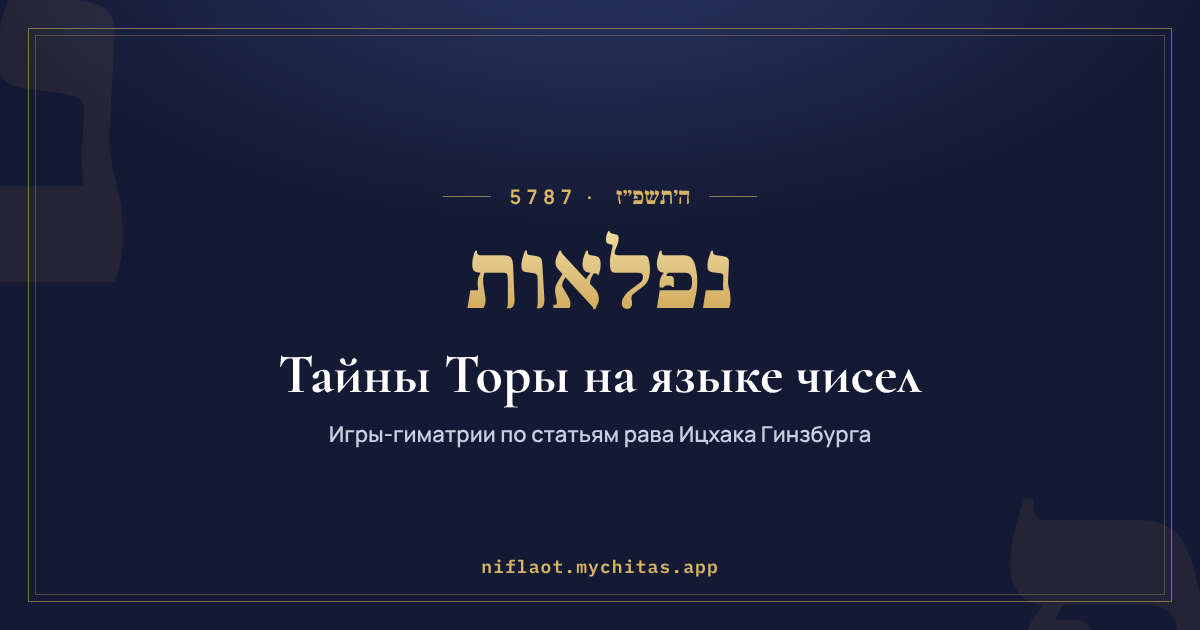
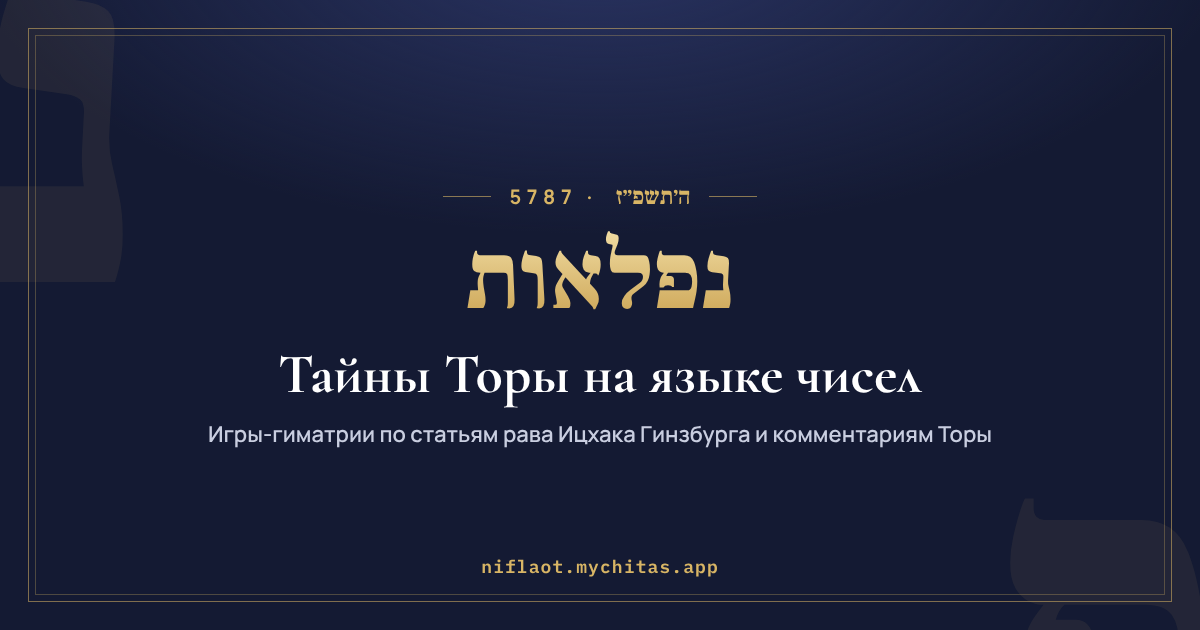
Site description: Rabbi Ginsburgh's articles and classic Torah commentaries
«About», tagline, footer, meta description, site OG image, README, CLAUDE.md,
lesson guide and the assistant prompt now mention the classic commentaries
(Baal HaTurim) next to Rabbi Ginsburgh's articles; the copyright line says
which texts belong to the rav and which come from Sefaria. ru/en/de.

Claude-Session: https://claude.ai/code/session_01AgfaXepv1Ty4CUDp6DvvTH

Changed region(s): [[0.1542, 0.6635, 0.8325, 0.7238]]

diff --git a/src/i18n/locales/ru.ts b/src/i18n/locales/ru.ts
@@ -28,7 +28,7 @@ const ru = {
   'about.title': 'О проекте',
   /** HTML */
   'about.body':
-    '<p><b>Нифлаот</b> — серия игр-гиматрий по статьям рава Ицхака Гинзбурга из брошюры «Нифлаот» (Гал Эйнай). Вы считаете числовые значения слов, находите скрытые равенства и шаг за шагом открываете смысл, который за ними стоит.</p><h4>Что здесь можно делать</h4><ul><li><b>Разгадывать уроки.</b> Каждая загадка — отрывок статьи и несколько слов на иврите; равенство нужно найти самому, а после решения открываются разгадка, изложение урока и вопрос к себе.</li><li><b>Научиться устному счёту через святую гиматрию.</b> Буквы здесь не складывает калькулятор — их складываете вы. Раздел «Устный счёт» в меню даёт по одной надёжной технике на сложение, вычитание, умножение и деление, с примерами из наших уроков и тренажёром трёх уровней. Числа из Торы становятся лучшим упражнением для ума.</li><li><b>Читать первоисточники.</b> Под каждым уроком — стихи Торы, мидраши и комментарии, на которые он опирается: оригинал на иврите и перевод рядом, со ссылкой на Sefaria. Можно проверить и углубить каждое утверждение.</li><li><b>Позвать помощника.</b> Кнопка ✦ в углу экрана разложит гиматрию любого слова по шагам — так, как её складывают в уме, — соберёт первоисточники урока и ответит на частые вопросы.</li><li><b>Распечатать урок</b> — для занятий за столом, в классе или в Шабат.</li></ul><h4>Для кого</h4><ul><li><b>Родителям</b> — чтобы учить Тору вместе с детьми, играя.</li><li><b>Читателям Хитаса</b> — как продолжение ежедневного учения.</li><li><b>Вундеркиндам</b> — тем, кто любит числа, загадки и глубину.</li><li><b>Всем</b>, кто хочет увидеть чудеса — <i>нифлаот</i> — в своей жизни.</li></ul><h4>Цели</h4><ul><li><b>Изучение Торы.</b> Не пассивное чтение, а живой поиск: каждое равенство нужно найти самому, и тогда смысл запоминается.</li><li><b>Исправление качеств души.</b> Каждый урок говорит о конкретных чертах — гордыне, вожделении, гневе, любви — и ведёт от понимания к работе над собой.</li><li><b>Ясная голова.</b> Устный счёт тренирует внимание и память, а святые слова дают этой тренировке смысл.</li></ul><h4>Задачи</h4><ul><li>Сделать глубокие статьи рава Гинзбурга доступными через игру: загадка, разгадка, изложение урока.</li><li>Опирать каждый урок на первоисточники, чтобы любой мог прочитать их сам.</li><li>Перевести знание в личную работу: после каждой загадки — вопрос к себе и место для записи.</li><li>Регулярно выпускать новые уроки и переводить их на разные языки.</li></ul><p>Полный текст статей на иврите — на pnimi.org.il. Все тексты целиком принадлежат раву Ицхаку Гинзбургу. Первоисточники — из открытой библиотеки Sefaria. Идея и реализация — Тора-проект <a href="https://mychitas.app" target="_blank" rel="noopener">mychitas.app</a>.</p><p>Адрес сайта: <a href="https://niflaot.mychitas.app">niflaot.mychitas.app</a></p>',
+    '<p><b>Нифлаот</b> — серия игр-гиматрий по статьям рава Ицхака Гинзбурга из брошюры «Нифлаот» (Гал Эйнай) и по классическим комментариям к Торе — таким как Бааль ха-Турим. Вы считаете числовые значения слов, находите скрытые равенства и шаг за шагом открываете смысл, который за ними стоит.</p><h4>Что здесь можно делать</h4><ul><li><b>Разгадывать уроки.</b> Каждая загадка — отрывок статьи или комментария и несколько слов на иврите; равенство нужно найти самому, а после решения открываются разгадка, изложение урока и вопрос к себе.</li><li><b>Научиться устному счёту через святую гиматрию.</b> Буквы здесь не складывает калькулятор — их складываете вы. Раздел «Устный счёт» в меню даёт по одной надёжной технике на сложение, вычитание, умножение и деление, с примерами из наших уроков и тренажёром трёх уровней. Числа из Торы становятся лучшим упражнением для ума.</li><li><b>Читать первоисточники.</b> Под каждым уроком — стихи Торы, мидраши и комментарии, на которые он опирается: оригинал на иврите и перевод рядом, со ссылкой на Sefaria. Можно проверить и углубить каждое утверждение.</li><li><b>Позвать помощника.</b> Кнопка ✦ в углу экрана разложит гиматрию любого слова по шагам — так, как её складывают в уме, — соберёт первоисточники урока и ответит на частые вопросы.</li><li><b>Распечатать урок</b> — для занятий за столом, в классе или в Шабат.</li></ul><h4>Для кого</h4><ul><li><b>Родителям</b> — чтобы учить Тору вместе с детьми, играя.</li><li><b>Читателям Хитаса</b> — как продолжение ежедневного учения.</li><li><b>Вундеркиндам</b> — тем, кто любит числа, загадки и глубину.</li><li><b>Всем</b>, кто хочет увидеть чудеса — <i>нифлаот</i> — в своей жизни.</li></ul><h4>Цели</h4><ul><li><b>Изучение Торы.</b> Не пассивное чтение, а живой поиск: каждое равенство нужно найти самому, и тогда смысл запоминается.</li><li><b>Исправление качеств души.</b> Каждый урок говорит о конкретных чертах — гордыне, вожделении, гневе, любви — и ведёт от понимания к работе над собой.</li><li><b>Ясная голова.</b> Устный счёт тренирует внимание и память, а святые слова дают этой тренировке смысл.</li></ul><h4>Задачи</h4><ul><li>Сделать глубокие статьи рава Гинзбурга и намёки классических комментаторов Торы доступными через игру: загадка, разгадка, изложение урока.</li><li>Опирать каждый урок на первоисточники, чтобы любой мог прочитать их сам.</li><li>Перевести знание в личную работу: после каждой загадки — вопрос к себе и место для записи.</li><li>Регулярно выпускать новые уроки и переводить их на разные языки.</li></ul><p>Полный текст статей рава Ицхака Гинзбурга на иврите — на pnimi.org.il; тексты этих статей целиком принадлежат ему. Комментарий Бааль ха-Турим и все первоисточники — из открытой библиотеки Sefaria. Идея и реализация — Тора-проект <a href="https://mychitas.app" target="_blank" rel="noopener">mychitas.app</a>.</p><p>Адрес сайта: <a href="https://niflaot.mychitas.app">niflaot.mychitas.app</a></p>',
 
   'print.button': 'Распечатать',
   'print.back': '← К игре',
@@ -101,7 +101,7 @@ const ru = {
   'catalog.start': 'Начать: урок {n}',
   'catalog.continue': 'Продолжить: урок {n}',
   'catalog.intro':
-    'Интерактивные этюды-гиматрии по урокам рава Ицхака Гинзбурга. Считайте буквы, находите скрытые связи между словами — и открывайте, что они меняют в вас. Для родителей и детей, читателей Хитаса и всех, кто любит загадки.',
+    'Интерактивные этюды-гиматрии по урокам рава Ицхака Гинзбурга и классическим комментариям Торы. Считайте буквы, находите скрытые связи между словами — и открывайте, что они меняют в вас. Для родителей и детей, читателей Хитаса и всех, кто любит загадки.',
   'catalog.lesson': 'Урок {n}',
   'catalog.riddles': { one: '{n} загадка', few: '{n} загадки', many: '{n} загадок', other: '{n} загадки' },
   'catalog.progress': 'решено {done} из {total}',
@@ -262,7 +262,7 @@ const ru = {
 
   'footer.contact': 'Вопросы и пожелания',
   'footer.donate': 'Поддержать проект',
-  'footer.fine': '© mychitas.app · Тексты: рав Ицхак Гинзбург',
+  'footer.fine': '© mychitas.app · Тексты: рав Ицхак Гинзбург, Бааль ха-Турим',
 } satisfies Record<string, string | PluralForms>;
 
 export type PluralForms = Partial<Record<Intl.LDMLPluralRule, string>> & { other: string };

diff --git a/src/i18n/locales/de.ts b/src/i18n/locales/de.ts
@@ -23,7 +23,7 @@ const de: Messages = {
 
   'about.title': 'Über das Projekt',
   'about.body':
-    '<p><b>Niflaot</b> ist eine Reihe von Gematria-Spielen nach Artikeln von Rabbiner Jizchak Ginsburgh aus der Broschüre „Niflaot“ (Gal Einai). Du zählst die Zahlenwerte von Wörtern, entdeckst verborgene Gleichheiten und erschließt Schritt für Schritt ihren Sinn.</p><h4>Was du hier tun kannst</h4><ul><li><b>Lektionen lösen.</b> Jedes Rätsel ist ein Abschnitt des Artikels mit einigen hebräischen Wörtern; die Gleichheit findest du selbst, danach öffnen sich die Lösung, die Lektion und eine Frage an dich selbst.</li><li><b>Kopfrechnen mit heiliger Gematria lernen.</b> Kein Rechner zählt die Buchstaben zusammen — das tust du. Der Abschnitt „Kopfrechnen“ im Menü zeigt je eine sichere Methode für Addition, Subtraktion, Multiplikation und Division, mit Beispielen aus unseren Lektionen und einem Trainer in drei Stufen. Zahlen aus der Tora werden zur besten Übung für den Verstand.</li><li><b>Die Quellen lesen.</b> Unter jeder Lektion stehen die Toraverse, Midraschim und Kommentare, auf die sie sich stützt: das hebräische Original und eine Übersetzung nebeneinander, mit einem Link zu Sefaria. Jede Aussage kannst du nachprüfen und vertiefen.</li><li><b>Den Helfer rufen.</b> Die Taste ✦ in der Ecke zerlegt die Gematria jedes Wortes in Schritte — so, wie man im Kopf rechnet —, sammelt die Quellen der Lektion und beantwortet häufige Fragen.</li><li><b>Eine Lektion drucken</b> — zum Lernen am Tisch, im Unterricht oder am Schabbat.</li></ul><h4>Für wen</h4><ul><li><b>Eltern</b> — um mit ihren Kindern spielerisch Tora zu lernen.</li><li><b>Chitas-Leser</b> — als Fortsetzung des täglichen Lernens.</li><li><b>Junge Talente</b> — alle, die Zahlen, Rätsel und Tiefe lieben.</li><li><b>Alle</b>, die im eigenen Leben Wunder — <i>Niflaot</i> — sehen möchten.</li></ul><h4>Ziele</h4><ul><li><b>Tora lernen.</b> Nicht passives Lesen, sondern lebendiges Suchen: Jede Gleichheit findest du selbst, und deshalb bleibt ihr Sinn bei dir.</li><li><b>Die Eigenschaften der Seele berichtigen.</b> Jede Lektion behandelt bestimmte Eigenschaften — Hochmut, Begierde, Zorn, Liebe — und führt vom Verstehen zur Arbeit an sich selbst.</li><li><b>Ein klarer Kopf.</b> Kopfrechnen schult Aufmerksamkeit und Gedächtnis, und heilige Wörter geben dieser Übung einen Sinn.</li></ul><h4>Aufgaben</h4><ul><li>Die tiefen Artikel von Rabbiner Ginsburgh spielerisch zugänglich machen: Rätsel, Lösung, Nacherzählung der Lektion.</li><li>Jede Lektion auf Quellen stützen, die jeder selbst lesen kann.</li><li>Wissen in persönliche Arbeit verwandeln: nach jedem Rätsel eine Frage an dich selbst und Platz für deine Notizen.</li><li>Regelmäßig neue Lektionen veröffentlichen und in weitere Sprachen übersetzen.</li></ul><p>Der vollständige hebräische Text der Artikel steht auf pnimi.org.il. Alle Texte gehören vollständig Rabbiner Jizchak Ginsburgh. Die Quellen stammen aus der freien Bibliothek Sefaria. Idee und Umsetzung — das Tora-Projekt <a href="https://mychitas.app" target="_blank" rel="noopener">mychitas.app</a>.</p><p>Website: <a href="https://niflaot.mychitas.app">niflaot.mychitas.app</a></p>',
+    '<p><b>Niflaot</b> ist eine Reihe von Gematria-Spielen nach Artikeln von Rabbiner Jizchak Ginsburgh aus der Broschüre „Niflaot“ (Gal Einai) und nach klassischen Torakommentaren wie dem Baal HaTurim. Du zählst die Zahlenwerte von Wörtern, entdeckst verborgene Gleichheiten und erschließt Schritt für Schritt ihren Sinn.</p><h4>Was du hier tun kannst</h4><ul><li><b>Lektionen lösen.</b> Jedes Rätsel ist ein Abschnitt eines Artikels oder Kommentars mit einigen hebräischen Wörtern; die Gleichheit findest du selbst, danach öffnen sich die Lösung, die Lektion und eine Frage an dich selbst.</li><li><b>Kopfrechnen mit heiliger Gematria lernen.</b> Kein Rechner zählt die Buchstaben zusammen — das tust du. Der Abschnitt „Kopfrechnen“ im Menü zeigt je eine sichere Methode für Addition, Subtraktion, Multiplikation und Division, mit Beispielen aus unseren Lektionen und einem Trainer in drei Stufen. Zahlen aus der Tora werden zur besten Übung für den Verstand.</li><li><b>Die Quellen lesen.</b> Unter jeder Lektion stehen die Toraverse, Midraschim und Kommentare, auf die sie sich stützt: das hebräische Original und eine Übersetzung nebeneinander, mit einem Link zu Sefaria. Jede Aussage kannst du nachprüfen und vertiefen.</li><li><b>Den Helfer rufen.</b> Die Taste ✦ in der Ecke zerlegt die Gematria jedes Wortes in Schritte — so, wie man im Kopf rechnet —, sammelt die Quellen der Lektion und beantwortet häufige Fragen.</li><li><b>Eine Lektion drucken</b> — zum Lernen am Tisch, im Unterricht oder am Schabbat.</li></ul><h4>Für wen</h4><ul><li><b>Eltern</b> — um mit ihren Kindern spielerisch Tora zu lernen.</li><li><b>Chitas-Leser</b> — als Fortsetzung des täglichen Lernens.</li><li><b>Junge Talente</b> — alle, die Zahlen, Rätsel und Tiefe lieben.</li><li><b>Alle</b>, die im eigenen Leben Wunder — <i>Niflaot</i> — sehen möchten.</li></ul><h4>Ziele</h4><ul><li><b>Tora lernen.</b> Nicht passives Lesen, sondern lebendiges Suchen: Jede Gleichheit findest du selbst, und deshalb bleibt ihr Sinn bei dir.</li><li><b>Die Eigenschaften der Seele berichtigen.</b> Jede Lektion behandelt bestimmte Eigenschaften — Hochmut, Begierde, Zorn, Liebe — und führt vom Verstehen zur Arbeit an sich selbst.</li><li><b>Ein klarer Kopf.</b> Kopfrechnen schult Aufmerksamkeit und Gedächtnis, und heilige Wörter geben dieser Übung einen Sinn.</li></ul><h4>Aufgaben</h4><ul><li>Die tiefen Artikel von Rabbiner Ginsburgh und die Andeutungen der klassischen Torakommentatoren spielerisch zugänglich machen: Rätsel, Lösung, Nacherzählung der Lektion.</li><li>Jede Lektion auf Quellen stützen, die jeder selbst lesen kann.</li><li>Wissen in persönliche Arbeit verwandeln: nach jedem Rätsel eine Frage an dich selbst und Platz für deine Notizen.</li><li>Regelmäßig neue Lektionen veröffentlichen und in weitere Sprachen übersetzen.</li></ul><p>Der vollständige hebräische Text der Artikel von Rabbiner Jizchak Ginsburgh steht auf pnimi.org.il; die Texte dieser Artikel gehören vollständig ihm. Der Kommentar des Baal HaTurim und alle Quellen stammen aus der freien Bibliothek Sefaria. Idee und Umsetzung — das Tora-Projekt <a href="https://mychitas.app" target="_blank" rel="noopener">mychitas.app</a>.</p><p>Website: <a href="https://niflaot.mychitas.app">niflaot.mychitas.app</a></p>',
 
   'print.button': 'Drucken',
   'print.back': '← Zurück zum Spiel',
@@ -92,7 +92,7 @@ const de: Messages = {
   'catalog.start': 'Beginnen: Lektion {n}',
   'catalog.continue': 'Weiter: Lektion {n}',
   'catalog.intro':
-    'Interaktive Gematria-Studien nach den Lektionen von Rabbiner Jizchak Ginsburgh. Zähle die Buchstaben, entdecke verborgene Verbindungen zwischen Wörtern — und finde heraus, was sie in dir verändern. Für Eltern und Kinder, Chitas-Leser und alle, die Rätsel lieben.',
+    'Interaktive Gematria-Studien nach den Lektionen von Rabbiner Jizchak Ginsburgh und klassischen Torakommentaren. Zähle die Buchstaben, entdecke verborgene Verbindungen zwischen Wörtern — und finde heraus, was sie in dir verändern. Für Eltern und Kinder, Chitas-Leser und alle, die Rätsel lieben.',
   'catalog.lesson': 'Lektion {n}',
   'catalog.riddles': { one: '{n} Rätsel', other: '{n} Rätsel' },
   'catalog.progress': '{done} von {total} gelöst',
@@ -244,7 +244,7 @@ const de: Messages = {
 
   'footer.contact': 'Fragen und Vorschläge',
   'footer.donate': 'Das Projekt unterstützen',
-  'footer.fine': '© mychitas.app · Texte: Rabbiner Jizchak Ginsburgh',
+  'footer.fine': '© mychitas.app · Texte: Rabbiner Jizchak Ginsburgh, Baal HaTurim',
 };
 
 export default de;

diff --git a/src/i18n/locales/en.ts b/src/i18n/locales/en.ts
@@ -23,7 +23,7 @@ const en: Messages = {
 
   'about.title': 'About the project',
   'about.body':
-    '<p><b>Niflaot</b> is a series of gematria games based on articles by Rabbi Yitzchak Ginsburgh from the “Niflaot” booklet (Gal Einai). You count the numerical values of words, discover hidden equalities and, step by step, uncover the meaning behind them.</p><h4>What you can do here</h4><ul><li><b>Solve the lessons.</b> Each riddle is a passage of the article and a few Hebrew words; you find the equality yourself, and then the solution, the lesson and a question for yourself open up.</li><li><b>Learn mental math through holy gematria.</b> No calculator adds the letters — you do. The “Mental math” section in the menu gives one reliable technique each for addition, subtraction, multiplication and division, with examples from our lessons and a three-level trainer. Numbers from the Torah become the best exercise for the mind.</li><li><b>Read the primary sources.</b> Under every lesson are the Torah verses, midrashim and commentaries it rests on: the Hebrew original and a translation side by side, with a link to Sefaria. You can check and deepen every statement.</li><li><b>Call the helper.</b> The ✦ button in the corner breaks the gematria of any word into steps — the way you add it in your head — gathers the lesson’s primary sources and answers common questions.</li><li><b>Print a lesson</b> — for study at the table, in class or on Shabbat.</li></ul><h4>Who it is for</h4><ul><li><b>Parents</b> — to learn Torah together with their children through play.</li><li><b>Chitas readers</b> — as a continuation of daily study.</li><li><b>Young prodigies</b> — those who love numbers, riddles and depth.</li><li><b>Everyone</b> who wants to see wonders — <i>niflaot</i> — in their own life.</li></ul><h4>Goals</h4><ul><li><b>Torah study.</b> Not passive reading but a living search: you find each equality yourself, and so the meaning stays with you.</li><li><b>Rectifying the traits of the soul.</b> Each lesson addresses specific traits — pride, desire, anger, love — and leads from understanding to working on oneself.</li><li><b>A clear mind.</b> Mental arithmetic trains attention and memory, and holy words give that training meaning.</li></ul><h4>Objectives</h4><ul><li>Make Rabbi Ginsburgh’s deep articles accessible through play: riddle, solution, retelling of the lesson.</li><li>Ground every lesson in primary sources that anyone can read for themselves.</li><li>Turn knowledge into personal work: after every riddle — a question for yourself and room for your notes.</li><li>Release new lessons regularly and translate them into more languages.</li></ul><p>The full Hebrew text of the articles is on pnimi.org.il. All texts belong entirely to Rabbi Yitzchak Ginsburgh. Primary sources come from the open Sefaria library. Idea and production — the <a href="https://mychitas.app" target="_blank" rel="noopener">mychitas.app</a> Torah project.</p><p>Website: <a href="https://niflaot.mychitas.app">niflaot.mychitas.app</a></p>',
+    '<p><b>Niflaot</b> is a series of gematria games based on articles by Rabbi Yitzchak Ginsburgh from the “Niflaot” booklet (Gal Einai) and on classic Torah commentaries such as the Baal HaTurim. You count the numerical values of words, discover hidden equalities and, step by step, uncover the meaning behind them.</p><h4>What you can do here</h4><ul><li><b>Solve the lessons.</b> Each riddle is a passage of an article or a commentary and a few Hebrew words; you find the equality yourself, and then the solution, the lesson and a question for yourself open up.</li><li><b>Learn mental math through holy gematria.</b> No calculator adds the letters — you do. The “Mental math” section in the menu gives one reliable technique each for addition, subtraction, multiplication and division, with examples from our lessons and a three-level trainer. Numbers from the Torah become the best exercise for the mind.</li><li><b>Read the primary sources.</b> Under every lesson are the Torah verses, midrashim and commentaries it rests on: the Hebrew original and a translation side by side, with a link to Sefaria. You can check and deepen every statement.</li><li><b>Call the helper.</b> The ✦ button in the corner breaks the gematria of any word into steps — the way you add it in your head — gathers the lesson’s primary sources and answers common questions.</li><li><b>Print a lesson</b> — for study at the table, in class or on Shabbat.</li></ul><h4>Who it is for</h4><ul><li><b>Parents</b> — to learn Torah together with their children through play.</li><li><b>Chitas readers</b> — as a continuation of daily study.</li><li><b>Young prodigies</b> — those who love numbers, riddles and depth.</li><li><b>Everyone</b> who wants to see wonders — <i>niflaot</i> — in their own life.</li></ul><h4>Goals</h4><ul><li><b>Torah study.</b> Not passive reading but a living search: you find each equality yourself, and so the meaning stays with you.</li><li><b>Rectifying the traits of the soul.</b> Each lesson addresses specific traits — pride, desire, anger, love — and leads from understanding to working on oneself.</li><li><b>A clear mind.</b> Mental arithmetic trains attention and memory, and holy words give that training meaning.</li></ul><h4>Objectives</h4><ul><li>Make Rabbi Ginsburgh’s deep articles and the allusions of the classic Torah commentators accessible through play: riddle, solution, retelling of the lesson.</li><li>Ground every lesson in primary sources that anyone can read for themselves.</li><li>Turn knowledge into personal work: after every riddle — a question for yourself and room for your notes.</li><li>Release new lessons regularly and translate them into more languages.</li></ul><p>The full Hebrew text of Rabbi Yitzchak Ginsburgh’s articles is on pnimi.org.il; the texts of these articles belong entirely to him. The Baal HaTurim’s commentary and all primary sources come from the open Sefaria library. Idea and production — the <a href="https://mychitas.app" target="_blank" rel="noopener">mychitas.app</a> Torah project.</p><p>Website: <a href="https://niflaot.mychitas.app">niflaot.mychitas.app</a></p>',
 
   'print.button': 'Print',
   'print.back': '← Back to the game',
@@ -92,7 +92,7 @@ const en: Messages = {
   'catalog.start': 'Start: lesson {n}',
   'catalog.continue': 'Continue: lesson {n}',
   'catalog.intro':
-    'Interactive gematria studies based on Rabbi Yitzchak Ginsburgh’s lessons. Count the letters, discover hidden connections between words — and find out what they change in you. For parents and children, Chitas readers and everyone who loves a riddle.',
+    'Interactive gematria studies based on Rabbi Yitzchak Ginsburgh’s lessons and classic Torah commentaries. Count the letters, discover hidden connections between words — and find out what they change in you. For parents and children, Chitas readers and everyone who loves a riddle.',
   'catalog.lesson': 'Lesson {n}',
   'catalog.riddles': { one: '{n} riddle', other: '{n} riddles' },
   'catalog.progress': '{done} of {total} solved',
@@ -244,7 +244,7 @@ const en: Messages = {
 
   'footer.contact': 'Questions & suggestions',
   'footer.donate': 'Support the project',
-  'footer.fine': '© mychitas.app · Texts: Rabbi Yitzchak Ginsburgh',
+  'footer.fine': '© mychitas.app · Texts: Rabbi Yitzchak Ginsburgh, Baal HaTurim',
 };
 
 export default en;

diff --git a/assistant/src/index.ts b/assistant/src/index.ts
@@ -24,7 +24,7 @@ const MAX_TOOL_ROUNDS = 5;
 /** request body limit, bytes: 24 turns × (2000…8000 chars) + context, with room for UTF-8 */
 const MAX_BODY = 256 * 1024;
 
-const SYSTEM = `You are the study assistant of "Niflaot" (niflaot.mychitas.app) — gematria games based on articles by Rabbi Yitzchak Ginsburgh from the "Niflaot" booklet (Gal Einai), made by the mychitas.app Torah project.
+const SYSTEM = `You are the study assistant of "Niflaot" (niflaot.mychitas.app) — gematria games based on articles by Rabbi Yitzchak Ginsburgh from the "Niflaot" booklet (Gal Einai) and on classic Torah commentaries such as the Baal HaTurim, made by the mychitas.app Torah project.
 
 Who you help: parents learning with children, Chitas readers, children who love numbers. Be warm, clear and brief (a few short paragraphs at most). Answer in the language of the user's latest message (Russian, English or German most often).
 
@@ -36,7 +36,7 @@ What you do:
 
 Accuracy rules:
 - Never compute gematria in your head: call the gematria tool for every Hebrew word or phrase whose value you state, and use only its results.
-- Attribute to Rabbi Ginsburgh only what is in the lesson context. If something is not there, say that it is your own general explanation, or that you don't know. Do not invent quotes, sources or page numbers.
+- Attribute to the lesson's author (Rabbi Ginsburgh or the commentator named in the lesson) only what is in the lesson context. If something is not there, say that it is your own general explanation, or that you don't know. Do not invent quotes, sources or page numbers.
 - For questions of practical halacha, refer the user to a competent rabbi.
 - Out of respect for G-d's Names, write אלקים (not with ה), ה׳ for the Tetragrammaton, and "Б-г" / "G-d" / "G-tt" in Russian / English / German. Gematria is still computed from the real spelling (the tool handles that if you pass the real spelling).
 - Stay on topic: Torah, this lesson, gematria, Hebrew, mental math, how to use the site. Politely decline unrelated requests.

diff --git a/index.html b/index.html
@@ -3,8 +3,8 @@
   <head>
     <meta charset="utf-8" />
     <meta name="viewport" content="width=device-width,initial-scale=1,viewport-fit=cover" />
-    <title>Нифлаот — игры-гиматрии по статьям рава Ицхака Гинзбурга · MyChitas</title>
-    <meta name="description" content="Интерактивные загадки-гиматрии по статьям рава Ицхака Гинзбурга из брошюры «Нифлаот»: считайте числовые значения слов на иврите, находите скрытые равенства в Торе и открывайте их смысл. Для родителей и детей." />
+    <title>Нифлаот — игры-гиматрии по статьям рава Ицхака Гинзбурга и комментариям Торы · MyChitas</title>
+    <meta name="description" content="Интерактивные загадки-гиматрии по статьям рава Ицхака Гинзбурга из брошюры «Нифлаот» и комментарию Бааль ха-Турим: считайте числовые значения слов на иврите, находите скрытые равенства в Торе и открывайте их смысл. Для родителей и детей." />
     <meta name="theme-color" content="#141A33" />
     <meta name="referrer" content="strict-origin-when-cross-origin" />
     <link rel="canonical" href="https://niflaot.mychitas.app/" />

diff --git a/scripts/og-images.ts b/scripts/og-images.ts
@@ -85,7 +85,7 @@ const shots: [string, string][] = [
       eyebrowHtml: '5787 · <span class="he">ה׳תשפ״ז</span>',
       he: 'נפלאות',
       title: ru['catalog.uvp'] as string,
-      sub: 'Игры-гиматрии по статьям рава Ицхака Гинзбурга',
+      sub: 'Игры-гиматрии по статьям рава Ицхака Гинзбурга и комментариям Торы',
       letters: ['נ', 'פ'],
     }),
   ],

diff --git a/README.md b/README.md
@@ -2,7 +2,8 @@
 
 **Сайт: https://niflaot.mychitas.app**
 
-Интерактивные игры-гиматрии по статьям рава Ицхака Гинзбурга из брошюры «Нифлаот» (Гал Эйнай) —
+Интерактивные игры-гиматрии по статьям рава Ицхака Гинзбурга из брошюры «Нифлаот» (Гал Эйнай)
+и по классическим комментариям к Торе (Бааль ха-Турим) —
 Тора-проект [MyChitas](https://mychitas.app). Игрок сам считает числовые значения слов на иврите,
 находит скрытые равенства в Торе и шаг за шагом открывает их смысл — от загадки к уроку и к работе над собой.
 
@@ -142,5 +143,5 @@ python3 scripts/fetch-sources.py                                                
 
 ---
 
-Все тексты уроков принадлежат раву Ицхаку Гинзбургу ([pnimi.org.il](https://pnimi.org.il)).
-Первоисточники — открытая библиотека [Sefaria](https://www.sefaria.org). Идея и реализация — [MyChitas](https://mychitas.app).
+Тексты статей рава Ицхака Гинзбурга принадлежат ему ([pnimi.org.il](https://pnimi.org.il)).
+Комментарий Бааль ха-Турим и первоисточники — открытая библиотека [Sefaria](https://www.sefaria.org). Идея и реализация — [MyChitas](https://mychitas.app).

diff --git a/CLAUDE.md b/CLAUDE.md
@@ -1,6 +1,7 @@
 # Niflaot — память проекта
 
-Интерактивные игры-гиматрии по статьям рава Ицхака Гинзбурга из брошюры «Нифлаот» (Тора-проект MyChitas):
+Интерактивные игры-гиматрии по статьям рава Ицхака Гинзбурга из брошюры «Нифлаот» и по классическим комментариям
+к Торе (урок №1 — Бааль ха-Турим) (Тора-проект MyChitas):
 игрок сам считает гиматрию слов на иврите, находит равенства и открывает смысл урока. Уроки с пересказом статьи,
 первоисточниками Sefaria, пазлами «Собери смысл», устным счётом, печатью; ru/en. Сайт: https://niflaot.mychitas.app
 (GitHub Pages, публикация через `.github/workflows/deploy.yml` при пуше в `main`).

diff --git a/docs/LESSON-GUIDE.md b/docs/LESSON-GUIDE.md
@@ -7,7 +7,8 @@
 
 ## 1. Материал
 
-1. Исходник — брошюра «Нифлаот» (PDF) или текст статьи рава Ицхака Гинзбурга.
+1. Исходник — брошюра «Нифлаот» (PDF), текст статьи рава Ицхака Гинзбурга или классический комментарий
+   (например, Бааль ха-Турим: текст и издание — из Sefaria, автор указывается в поле `author` урока).
 2. Текст из PDF: `pdftotext -f <стр> -l <стр> файл.pdf -` (**без** `-layout` — иначе иврит идёт в обратном порядке).
 3. Прочитать статью **целиком** до начала работы. Урок = одна статья (шиур / рашима).
 
